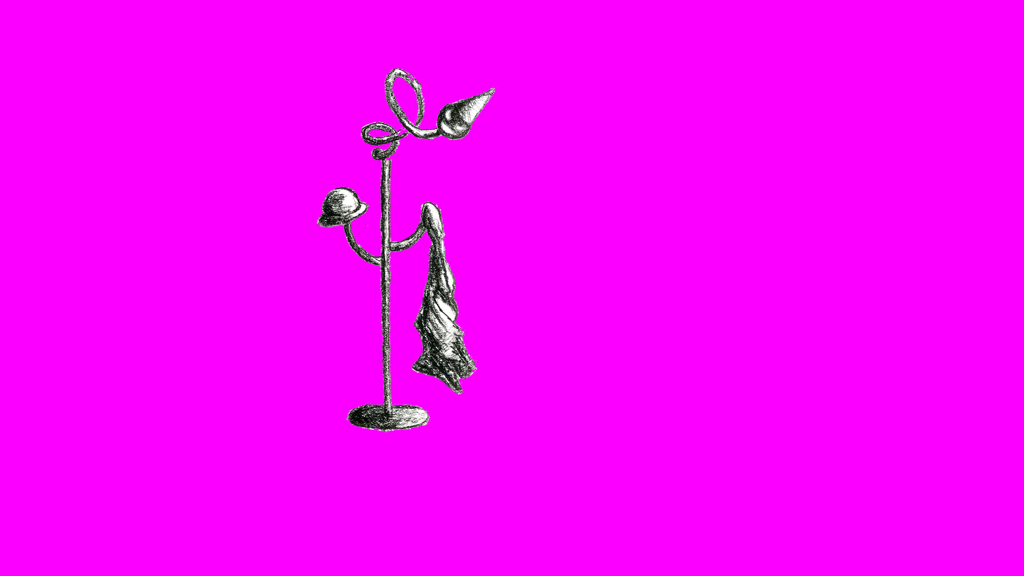
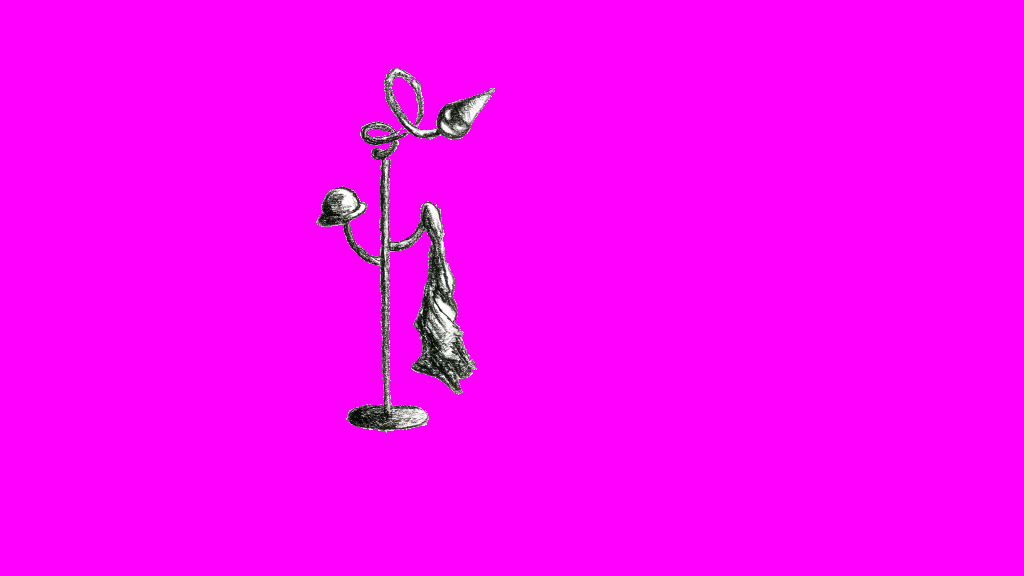
Fixed images (again)
Transparent = 255, 0, 255
24bits PNG only

Changed region(s): [[0.3125, 0.125, 0.5, 0.75]]

diff --git a/Main/src-2015/src/Lucarne/background.cpp b/Main/src-2015/src/Lucarne/background.cpp
@@ -65,7 +65,7 @@ bool loadBackground(Background *bkg) {
 	for (int i = 0; i < 3; i++) {
 		string name = sourcePath() + "/data/screens/" + to_string(bkg->pos[0]) + "_" + to_string(bkg->pos[1]) + "_" + to_string(i) + ".png";
 		if (LibSL::System::File::exists(name.c_str())) {
-			bkg->screens[i] = new DrawImage(name.c_str(), v3b(251, 0, 254));
+			bkg->screens[i] = new DrawImage(name.c_str(), v3b(255, 0, 255));
 		}
 		else {
 			return false;
